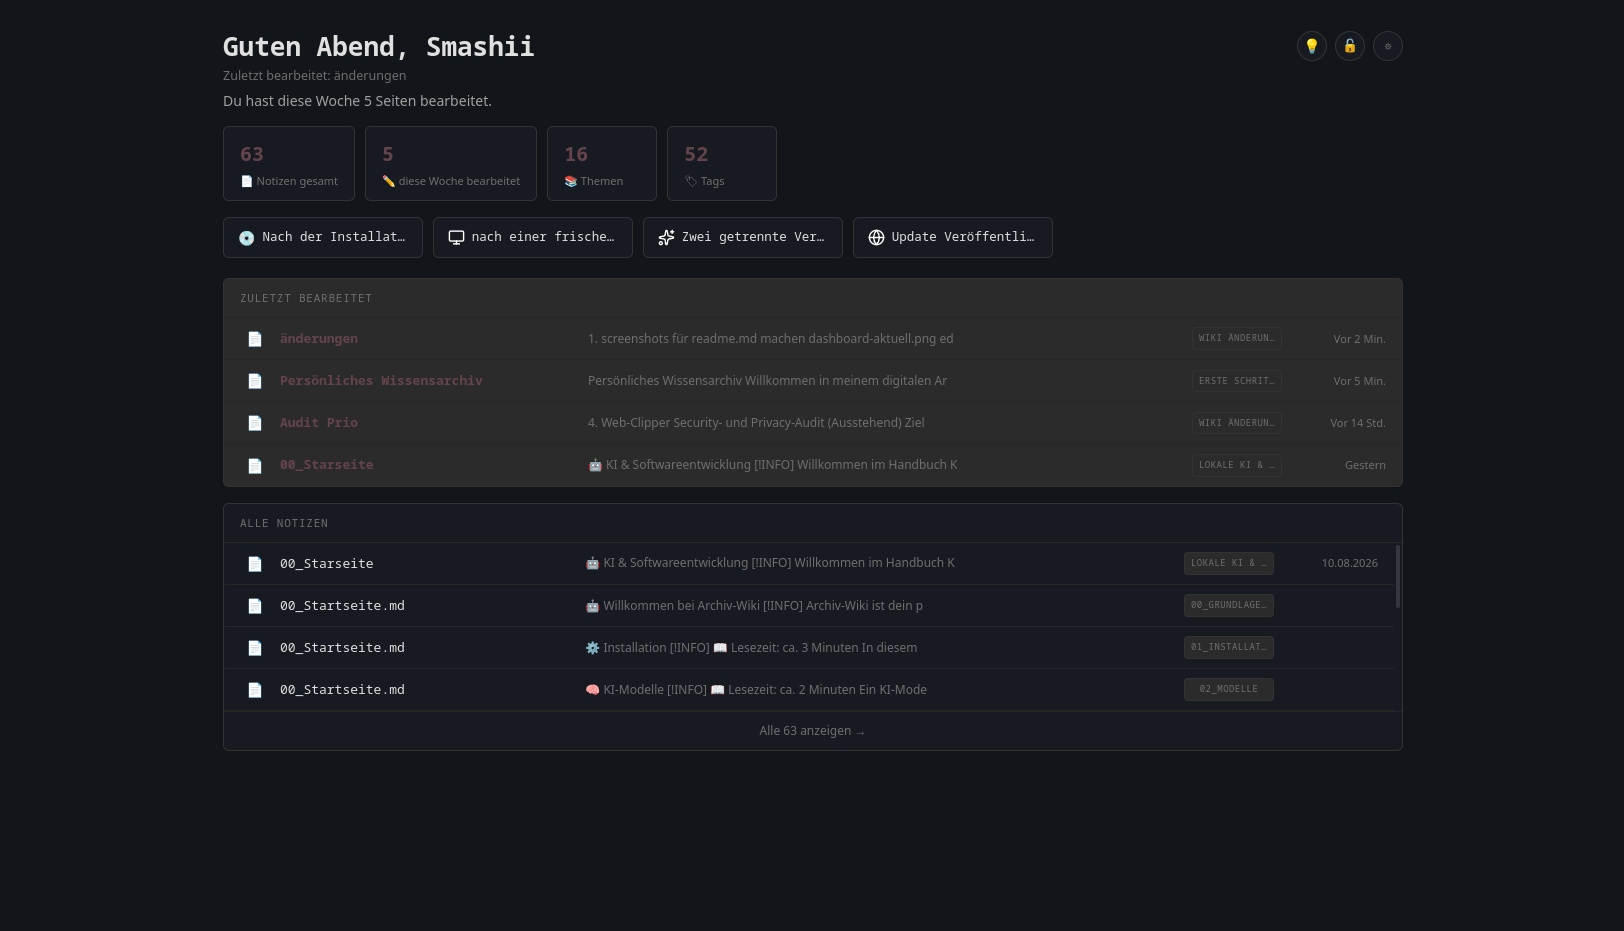
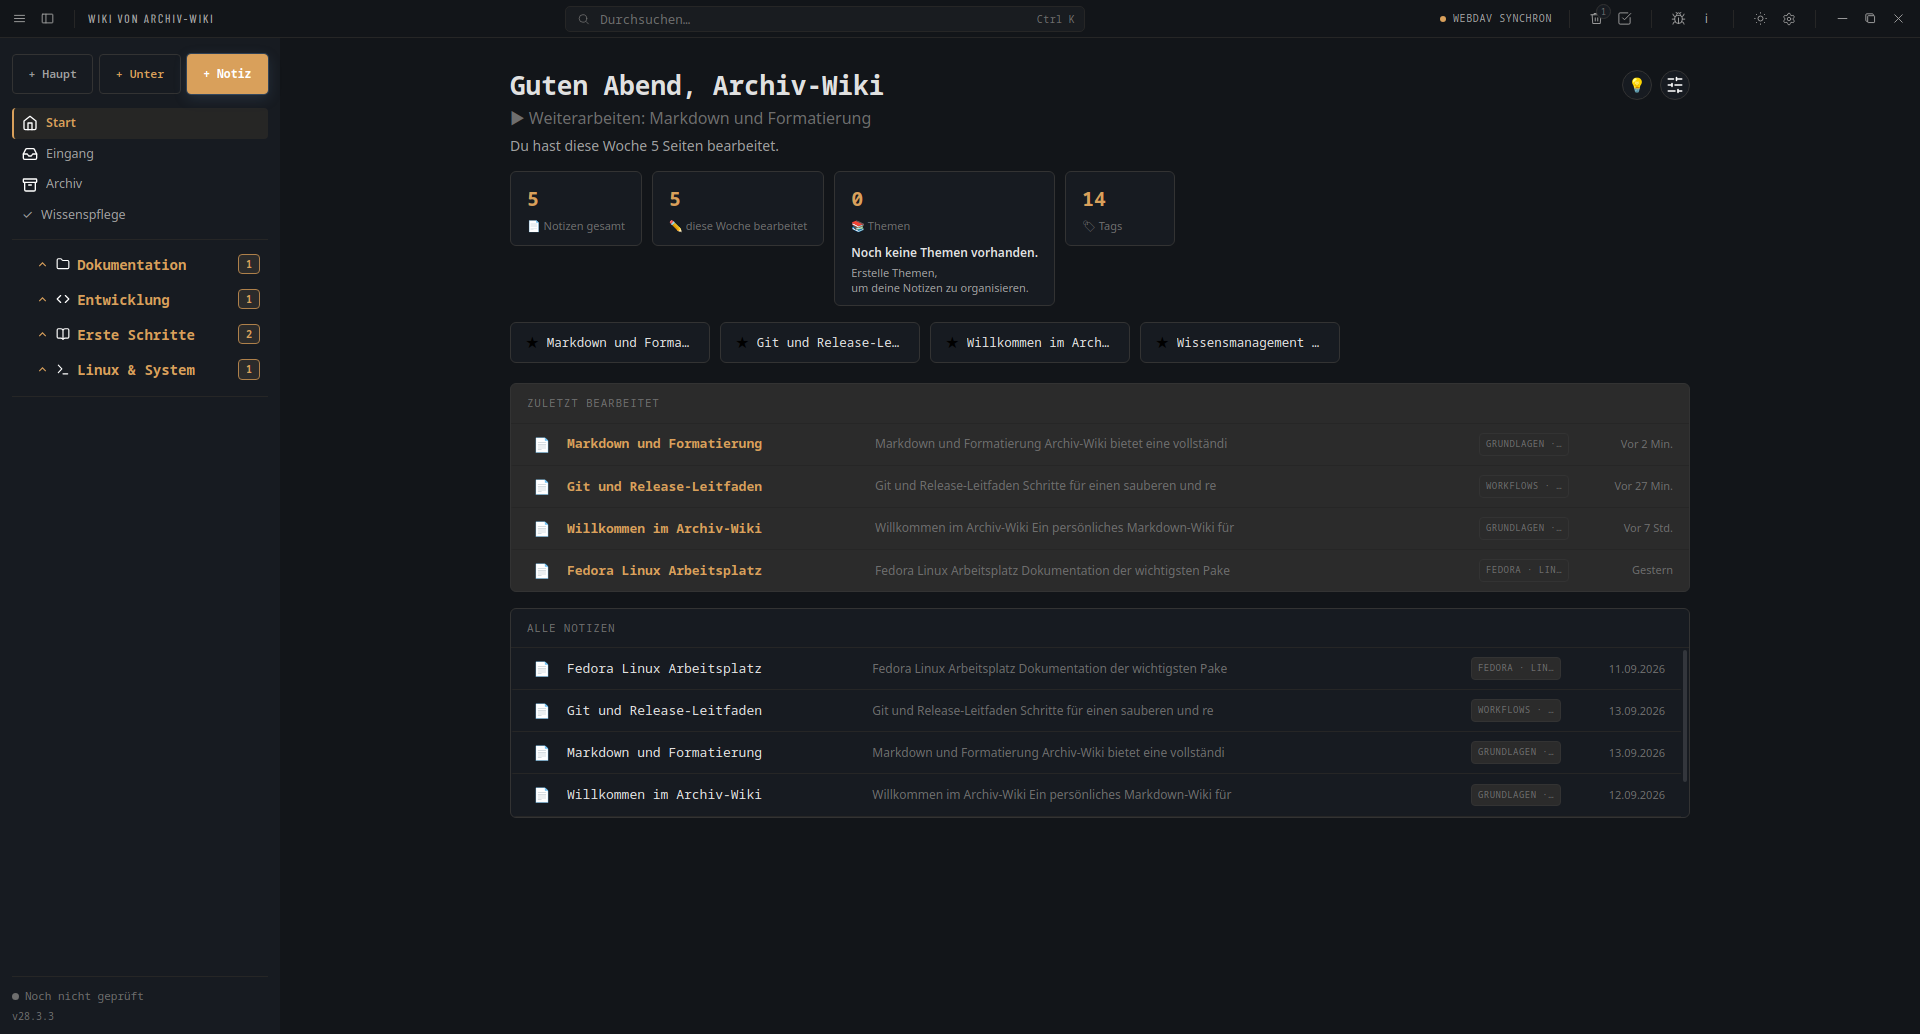
README und Projekt-Screenshots aktualisieren

diff --git a/README.md b/README.md
@@ -4,172 +4,121 @@
 
 **Ein persönliches Markdown-Wiki für den Linux-Desktop – für Notizen, Anleitungen, Setups und Checklisten.**
 
-Archiv-Wiki speichert dein Wissen lokal in einem eigenen Projektordner. Es benötigt keinen Account, sendet keine Telemetriedaten und funktioniert ohne Cloud. Eine optionale WebDAV-Synchronisierung kann bei Bedarf zusätzlich eingerichtet werden.
+Archiv-Wiki speichert dein Wissen lokal in einem frei wählbaren Ordner als verständliche Markdown-Dateien. Die Anwendung benötigt keinen Account, sendet keinerlei Telemetriedaten und arbeitet vollständig offline. Eine optionale WebDAV-Synchronisierung kann bei Bedarf für den Abgleich mit einer eigenen Nextcloud oder einem WebDAV-Server eingerichtet werden.
 
-## Kurzüberblick
+---
 
-- **Local First:** Deine Notizen bleiben als Markdown-Dateien in deinem eigenen Ordner.
-- **Struktur statt Dateichaos:** Hauptkategorien, Unterkategorien, Tags und interne Verlinkungen schaffen Übersicht.
-- **Schreiben und Lesen in einer Ansicht:** Markdown-Editor, Split-Ansicht und gerenderte Vorschau sind direkt integriert.
-- **Schnell wiederfinden:** Die Volltextsuche durchsucht Titel, Inhalte, Tags und Kategorien.
-- **Daten absichern:** Lokale Backups, Papierkorb und Exporte schützen vor versehentlichem Verlust.
-- **Webinhalte sammeln:** Der Web Clipper übergibt URLs, markierten Text, sichtbaren Seitentext und gezielt ausgewählte Bilder lokal an den Eingang.
-- **Optional synchronisieren:** WebDAV kann für den Abgleich mit einem eigenen Cloud-Speicher verwendet werden.
+## Auf einen Blick
 
-## Dashboard
+- **Local First:** Notizen liegen als lesbare `.md`-Dateien in deinem Dateisystem – volle Kontrolle ohne Vendor-Lock-in.
+- **Zweigeteilter Editor:** Leistungsfähige Split-Ansicht mit synchronem Scrollen, Live-Vorschau und moderner Werkzeugleiste.
+- **Struktur & Hierarchie:** Haupt- und Unterkategorien mit eigenen Icons, Tags, Backlinks und Favoriten.
+- **Web Clipper:** Schnelles Sammeln von Web-Artikeln, Codeblöcken und Bildern aus Firefox, Brave und Chromium direkt in den Eingang.
+- **Volltextsuche & Wissenspflege:** Schnelles Finden nach Begriffen, Tags oder Kategorien sowie automatische Erkennung verwaister oder defekter Links.
+- **Datensicherheit:** Automatische und manuelle ZIP-Backups, Papierkorb mit Wiederherstellung und optionaler Passwortschutz.
 
-![Dashboard von Archiv-Wiki](docs/screenshots/dashboard-aktuell.png)
+---
 
-Das Dashboard bündelt zuletzt bearbeitete, angepinnte und vorhandene Notizen. Statistiken und dezente Bedienhinweise geben Orientierung, ohne den persönlichen Arbeitsbereich zu überladen.
+## Einblicke
 
-## Was ist Archiv-Wiki?
+### Schreiben mit Live-Vorschau (Split-Ansicht)
 
-Archiv-Wiki ist eine Desktop-Anwendung für Wissen, das dauerhaft auffindbar bleiben soll: Installationsanleitungen, Problemlösungen, persönliche Dokumentationen, Ideen oder wiederkehrende Checklisten.
-
-Statt Informationen über einzelne Textdateien, Haftnotizen, Browser-Lesezeichen und Chatverläufe zu verteilen, werden sie in einem lokalen Wiki gesammelt. Die Anwendung verbindet die Offenheit von Markdown mit einer festen, übersichtlichen Oberfläche – ohne Plugin-Pflicht und ohne Bindung an einen Online-Dienst.
-
-## Die Anwendung
-
-### Schreiben mit direkter Vorschau
+Der Editor verbindet direktes Markdown-Schreiben mit einer synchronen Vorschau. Codeblöcke mit Syntaxhervorhebung, mathematische Formeln (KaTeX), Hinweisblöcke (Callouts), Tabellen und interne Wiki-Links (`[[Notiz]]`) werden in Echtzeit gerendert.
 
 ![Editor mit Sidebar und Split-Ansicht](docs/screenshots/editor-split.png)
 
-Der Editor bietet Quelltext, Vorschau oder eine frei einstellbare Split-Ansicht. Werkzeugleiste, Kontextmenü und direkte Markdown-Syntax unterstützen unterschiedliche Arbeitsweisen.
+### Zentrales Dashboard
 
-### Wissen übersichtlich organisieren
+Das Dashboard bietet beim Programmstart einen schnellen Überblick über kürzlich bearbeitete Seiten, angepinnte Favoriten, Wiki-Statistiken und die Notizstruktur.
 
-<p align="center">
-  <img src="docs/screenshots/kategorie.png" alt="Hauptkategorie in Archiv-Wiki" width="48%">
-  <img src="docs/screenshots/unterkategorie.png" alt="Unterkategorie in Archiv-Wiki" width="48%">
-</p>
+![Dashboard von Archiv-Wiki](docs/screenshots/dashboard-aktuell.png)
 
-Haupt- und Unterkategorien bilden eine klare Baumstruktur für Notizen. Eigene Icons und die sichtbare Hierarchie erleichtern die Orientierung auch in umfangreicheren Wikis.
+### Anpassbare Oberfläche & Einstellungen
 
-### Inhalte schnell wiederfinden
-
-<p align="center">
-  <img src="docs/screenshots/suche.png" alt="Volltextsuche in Archiv-Wiki" width="460">
-</p>
-
-Die Suche zeigt Titel, Textausschnitte, Tags und Kategoriepfade. Treffer werden hervorgehoben und lassen sich vollständig per Tastatur bedienen.
-
-### Einstellungen an einem Ort
+Über das zentrale Einstellungsfenster lassen sich Akzentfarben, Modus (Dunkel/Hell), Sidebar-Größe, Lesebreite, Backups, Updates und Web-Clipper-Anbindungen bequem anpassen.
 
 ![Einstellungsfenster von Archiv-Wiki](docs/screenshots/einstellungen.png)
 
-Allgemein, Darstellung, Editor, Backup, Updates, Web Clipper und Sicherheit sind in einem gemeinsamen Einstellungsfenster zusammengefasst.
+### Alternatives Oberflächendesign (Design 2 Vorschau)
 
-Unter Darstellung lässt sich zwischen **Classic**, dem etablierten Standard-Erscheinungsbild, und **Design 2**, einer optionalen Vorschau auf ein alternatives Design, wechseln; Design 2 gilt noch nicht als visuell final.
+Neben dem bewährten und produktionsreifen **Classic**-Design enthält Archiv-Wiki eine optionale Vorschau auf ein alternatives Oberflächenkonzept (**Design 2**). Es bietet eine neu gestaltete Kopf- und Themenleiste und kann in den Einstellungen jederzeit ausgewählt werden:
 
-### Lokale Backups
+![Vorschau auf das alternative Design 2](docs/screenshots/design2-preview.png)
 
-![Backup-Einstellungen von Archiv-Wiki](docs/screenshots/backup.png)
-
-Backups können automatisch nach einem gewählten Zeitplan oder jederzeit manuell erstellt werden. Status, Speicherort und Hinweise zur Wiederherstellung bleiben direkt in der Anwendung sichtbar.
-
-### Fokus-Modus
-
-![Fokus-Modus von Archiv-Wiki](docs/screenshots/focus-modus.png)
-
-Der Fokus-Modus ist bei geöffneter Notiz verfügbar. Er blendet die Sidebar vollständig aus, vergrößert den Arbeitsbereich und wechselt vorübergehend zur Editoransicht, ohne diese Auswahl projektweit zu speichern. Kopfbereich, Werkzeugleiste und Statusbereich bleiben sichtbar und bedienbar; ein zurückhaltender neutraler Schatten hebt den Arbeitsbereich räumlich hervor.
+---
 
 ## Funktionen
 
-### Schreiben und Darstellen
+### Schreiben und Gestalten
+- **Flexible Ansichten:** Wähle zwischen reinem Editor, synchroner Split-Ansicht oder voller Vorschau.
+- **Formatierung:** Schneller Zugriff über Werkzeugleiste, Kontextmenü oder gewohnte Markdown-Syntax.
+- **Erweiterte Elemente:** Tabellen (mit interaktivem Raster einfügen), Checklisten, KaTeX-Formeln, Callouts (`> [!TIP]`, `> [!NOTE]`) und Bilder.
+- **Bilder unkompliziert einfügen:** Bilder direkt aus der Zwischenablage per `Strg+V` oder über den Dateidialog einbetten.
+- **Code mit Komfort:** Syntaxhervorhebung für gängige Sprachen mit praktischer Kopieren-Schaltfläche.
+- **Fokus-Modus:** Blendet die Navigation für ablenkungsfreies Arbeiten vollständig aus (`Strg+Umschalt+F`).
 
-- Markdown-Editor mit Editor-, Split- und Vorschauansicht
-- frei verstellbare Split-Breite und optionale Lesebreite
-- Formatierung über Werkzeugleiste, Kontextmenü oder Markdown-Syntax
-- Tabellen, Checklisten, Bilder, Codeblöcke, Formeln und Hinweisblöcke
-- Syntaxhervorhebung und Kopieren-Schaltfläche für Code
-- eigene Notizvorlagen für wiederkehrende Inhalte
-- Fokus-Modus für konzentriertes Schreiben und Lesen
+### Struktur und Wissensvernetzung
+- **Kategorienbaum:** Haupt- und Unterkategorien mit anpassbaren Icons für eine saubere Themenstruktur.
+- **Wiki-Links:** Notizen mit doppelten eckigen Klammern `[[Zielnotiz]]` vernetzen; eingehende Verlinkungen (Backlinks) werden automatisch am Notizkopf angezeigt.
+- **Tags & Favoriten:** Verschlagwortung über Tags sowie Anpinnen wichtiger Seiten direkt auf das Dashboard.
+- **Wissenspflege:** Findet defekte Verlinkungen, Notizen ohne Tags oder leere Einträge mit direktem Korrektursprung.
+- **Eingang:** Lokaler Zwischenspeicher für Web-Clips, Notizen und Textfragmente, die erst später einsortiert werden sollen.
 
-### Organisieren
+### Suchen und Finden
+- **Echtzeit-Volltextsuche:** Durchsucht blitzschnell Titel, Textinhalte, Kategorien und Tags.
+- **Hervorgehobene Fundstellen:** Zeigt gefundene Textausschnitte mit Markierung an.
+- **Tastaturfokus:** Vollständig per Tastatur bedienbar (`Strg+K`).
 
-- Hauptkategorien, Unterkategorien und Notizen in einer festen Baumstruktur
-- Tags für bereichsübergreifende Zuordnung
-- interne Wikilinks mit `[[Notizname]]`
-- angepinnte und zuletzt bearbeitete Notizen im Dashboard
-- kuratierte Icons für Kategorien und Notizen
-- Papierkorb mit Wiederherstellung vor dem endgültigen Löschen
-- eigener Eingang für noch nicht verarbeitete Texte, Dateien, Bilder und Web-Clips, einschließlich Mehrfachauswahl und gemeinsamem Löschen
-- gesammelte Inhalte lassen sich später gezielt zu normalen Notizen verarbeiten
+### Datensicherheit und Privatsphäre
+- **Eigene Dateien:** Notizen bleiben ganz normale `.md`-Dateien auf deiner Festplatte.
+- **Backups:** Automatische Zeitplan-Backups oder manuelle ZIP-Archive mit Prüfsummenvalidierung.
+- **Papierkorb:** Gelöschte Notizen landen im Papierkorb und können jederzeit wiederhergestellt werden.
+- **Optionales App-Passwort:** Schützt das Öffnen der Anwendung mit sicherem Argon2id-Hash.
+- **Optionale Cloud-Synchronisation:** WebDAV-Integration für eigene Nextcloud-, ownCloud- oder Server-Instanzen.
 
-### Suchen und Navigieren
-
-- Volltextsuche über Titel, Inhalt, Tags und Kategorien
-- verständliche Treffergründe und hervorgehobene Fundstellen
-- Suche innerhalb einer geöffneten Notiz
-- Wissenspflege zum Auffinden defekter Wikilinks, von Notizen ohne Tags und von leeren Notizen mit direktem Sprung zur betroffenen Notiz
-- Kontextmenüs sowie umfassende Tastaturbedienung
-- zentrale Übersicht der verfügbaren Tastenkürzel
-
-### Daten und Sicherheit
-
-- lokale Markdown-Dateien im frei gewählten Projektordner
-- automatische und manuelle ZIP-Backups
-- überprüfte Backup-Archive und sichere temporäre Speicherung
-- Export als Markdown, HTML, PDF oder ZIP
-- optionales App-Passwort
-- verständliche Fehler- und Statusmeldungen
-
-### Desktop-Komfort
-
-- zentrale Einstellungen in den Bereichen Allgemein, Darstellung, Editor, Backup, Updates, Web Clipper und Sicherheit
-- anpassbare Akzentfarbe, Sidebar-Größe und Editor-Schriftgröße
-- lokaler Web Clipper für URLs, markierten Text, sichtbaren Seitentext und ausgewählte Bilder
-- System-Tray mit wählbarem Verhalten beim Schließen
-- integrierte Update-Prüfung mit Downloadfortschritt und Neustart
-- optionale WebDAV-Synchronisierung mit einem eigenen Server oder Nextcloud
-- ruhige Animationen und Unterstützung für reduzierte Bewegung
+---
 
 ## Installation
 
-Archiv-Wiki wird aktuell für **Linux** als AppImage bereitgestellt und auf **Fedora** getestet.
+Archiv-Wiki wird für **Linux** als transportables AppImage bereitgestellt und auf **Fedora** entwickelt und getestet.
 
 1. Öffne die [Releases](../../releases).
-2. Lade die neueste Datei mit der Endung `.AppImage` herunter.
-3. Markiere die Datei einmalig als ausführbar.
-4. Starte Archiv-Wiki per Doppelklick.
+2. Lade die neueste `.AppImage`-Datei herunter.
+3. Mache die Datei ausführbar und starte sie.
 
 ### Ausführbar machen – grafisch
-
-1. Rechtsklick auf die heruntergeladene Datei
-2. **Eigenschaften** öffnen
-3. Unter **Berechtigungen** die Ausführung als Programm erlauben
-4. Datei per Doppelklick starten
+1. Rechtsklick auf die Datei `Archiv-Wiki-*.AppImage` → **Eigenschaften**.
+2. Im Reiter **Berechtigungen** die Option *„Ausführen der Datei als Programm erlauben“* aktivieren.
+3. Datei per Doppelklick starten.
 
 ### Ausführbar machen – Terminal
-
 ```bash
 chmod +x Archiv-Wiki-*.AppImage
 ./Archiv-Wiki-*.AppImage
 ```
 
-Beim ersten Start führt ein Einrichtungsassistent durch Projektordner, Wiki-Name und grundlegende Optionen. WebDAV ist optional; Archiv-Wiki kann vollständig lokal verwendet werden.
+Beim ersten Start führt ein kompakter Einrichtungsassistent durch die Auswahl des Wiki-Speicherorts und grundlegende Optionen.
 
-![Einrichtungsassistent mit optionaler Cloud-Synchronisierung](docs/screenshots/cloud.png)
+---
 
-### Web Clipper in Firefox
+## Web Clipper
 
-Der Archiv-Wiki Web Clipper ist offiziell über [Mozilla Add-ons](https://addons.mozilla.org/de/firefox/addon/archiv-wiki-web-clipper/) verfügbar. Archiv-Wiki muss geöffnet sein, damit Firefox gesammelte Inhalte lokal an den Eingang übergeben kann.
+Mit dem Web Clipper lassen sich Webseiten, markierte Absätze oder Bilder direkt vom Browser lokal in den Eingang von Archiv-Wiki übergeben:
 
-### Web Clipper in Brave (Flatpak)
+- **Firefox:** Offiziell über [Mozilla Add-ons](https://addons.mozilla.org/de/firefox/addon/archiv-wiki-web-clipper/) verfügbar.
+- **Brave (Flatpak):** Lässt sich unter **Einstellungen → Web Clipper** mit einem Klick für Brave als Linux-Flatpak registrieren – ganz ohne Administratorrechte.
+- **Chromium (System):** Ebenfalls unter **Einstellungen → Web Clipper** für systemweit installierte Chromium-Browser vorkonfigurierbar.
 
-Die mitgelieferte, signierte Browser-Erweiterung lässt sich unter **Einstellungen → Web Clipper** mit **„Brave“** benutzerbezogen für Brave als Linux-Flatpak vorbereiten. Dafür sind weder Entwicklermodus noch Administrator- oder Root-Rechte erforderlich. Danach muss Brave vollständig geschlossen und neu gestartet werden.
+*Hinweis: Archiv-Wiki muss geöffnet sein, um Clips aus dem Browser lokal zu empfangen.*
 
-Eine bewusste Entfernung der Erweiterung in Brave wird respektiert und nicht automatisch rückgängig gemacht.
-
-### Web Clipper in Chromium (System)
-
-Die mitgelieferte, signierte Browser-Erweiterung lässt sich unter **Einstellungen → Web Clipper** mit **„Chromium“** benutzerbezogen für eine normal installierte System-Version von Chromium vorbereiten. Dafür sind weder Entwicklermodus noch Administrator- oder Root-Rechte erforderlich. Danach muss Chromium vollständig geschlossen und neu gestartet werden.
+---
 
 ## Dokumentation
 
-Weiterführende Anleitungen zur Einrichtung und Bedienung befinden sich im [GitHub-Wiki](../../wiki).
+- Ausführliche Anleitungen zur Einrichtung und Bedienung findest du im [GitHub-Wiki](../../wiki).
+- Neuigkeiten und Änderungsprotokolle einzelner Versionen sind in den [Releases](../../releases) zu finden.
 
-Änderungen und Downloads einzelner Versionen sind unter [Releases](../../releases) dokumentiert.
+---
 
 ## Entwicklung mit KI-Unterstützung
 
